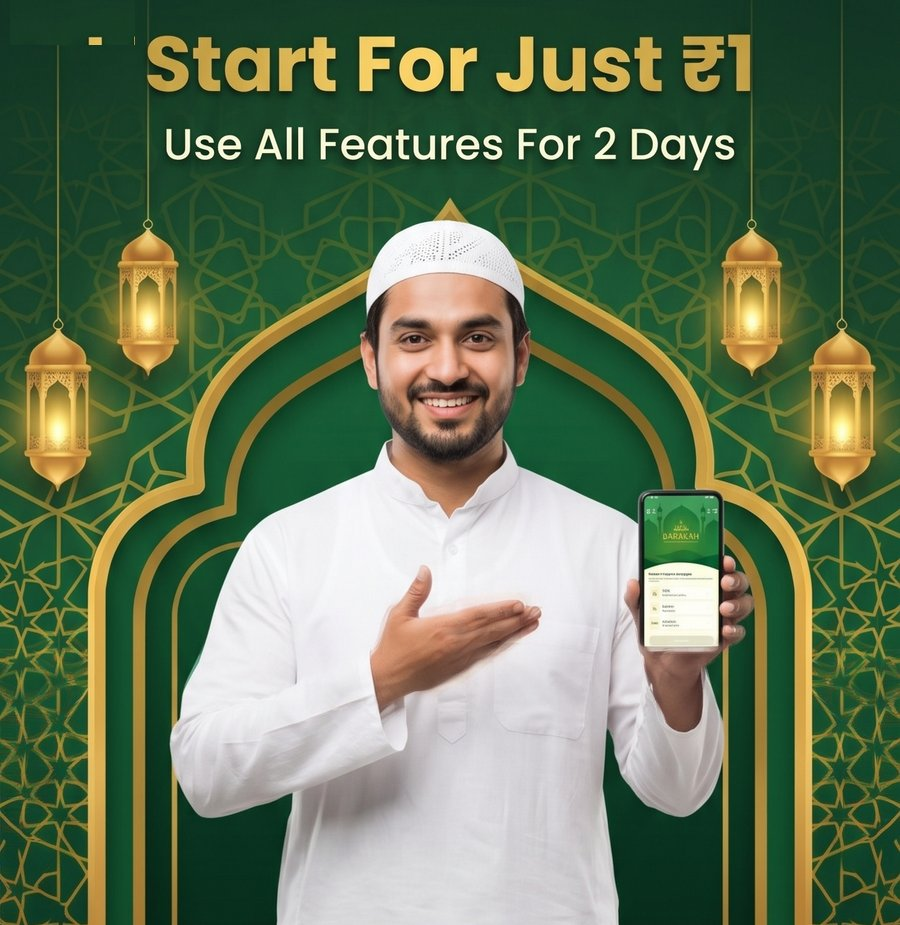
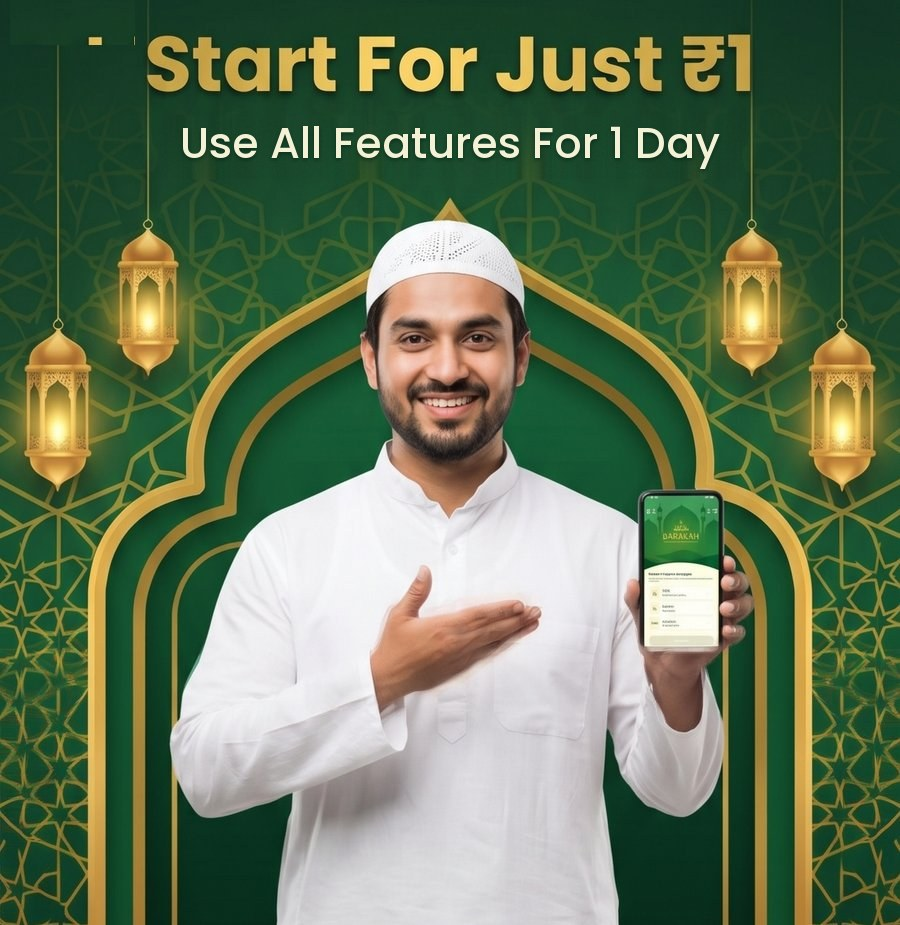
i-free-trial: 1 day trial copy + hero, send X-TENANT: ISLAMIC

Changed region(s): [[0.1867, 0.1211, 0.84, 0.1816]]

diff --git a/i-free-trial.html b/i-free-trial.html
@@ -104,7 +104,7 @@ body{margin:0;background:var(--bg);color:var(--fg);font:16px/1.4 "DM Sans",syste
 <div class="wrap">
   <div class="hero"><img src="islamic-hero.jpg" alt="" onerror="this.remove()"></div> <!-- placeholder: drop islamic-hero.jpg next to this file -->
   <div class="chips" id="chips"><span class="on">Islamic Wallpaper</span><span>Islamic Ringtones</span><span>Zikr Counter</span><span>Make Dua</span></div>
-  <p class="price"><b>₹1</b>/ Unlimited For 2 Days</p>
+  <p class="price"><b>₹1</b>/ Unlimited For 1 Day</p>
 </div>
 <div class="bar">
   <a class="cta" id="b-main" href="#paywall">Continue →</a>
@@ -223,7 +223,7 @@ var token="",userId="",mobile="";   // in memory only, never persisted
 var pollTimer=null;
 
 function api(path,body,auth,method){
-  var h={"Content-Type":"application/json","X-TENANT":"ZENA","device-id":"web"};
+  var h={"Content-Type":"application/json","X-TENANT":"ISLAMIC","device-id":"web"};
   if(auth){h["Authorization"]="Bearer "+token;h["user-id"]=userId}
   return fetch(API+path,{method:method||"POST",headers:h,body:body?JSON.stringify(body):undefined})
     .then(function(r){return r.json().catch(function(){return{}}).then(function(j){
